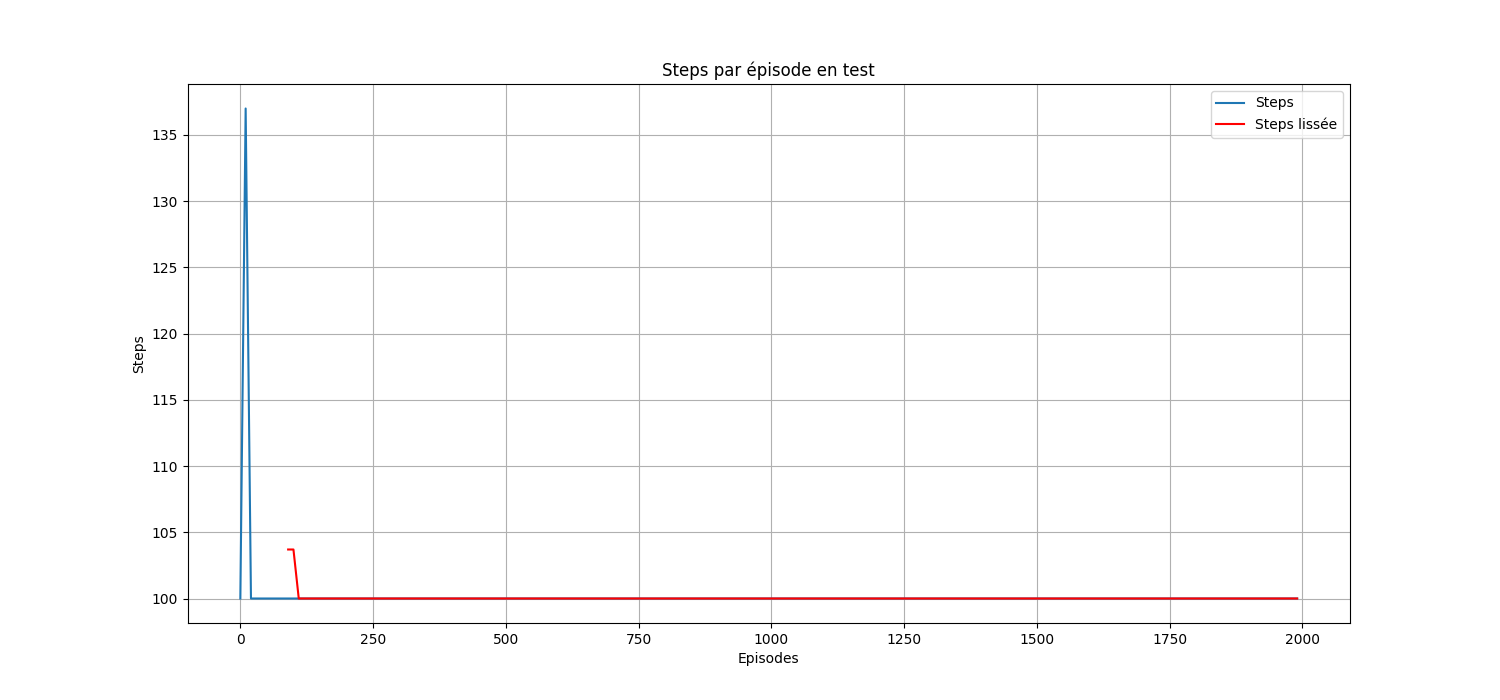
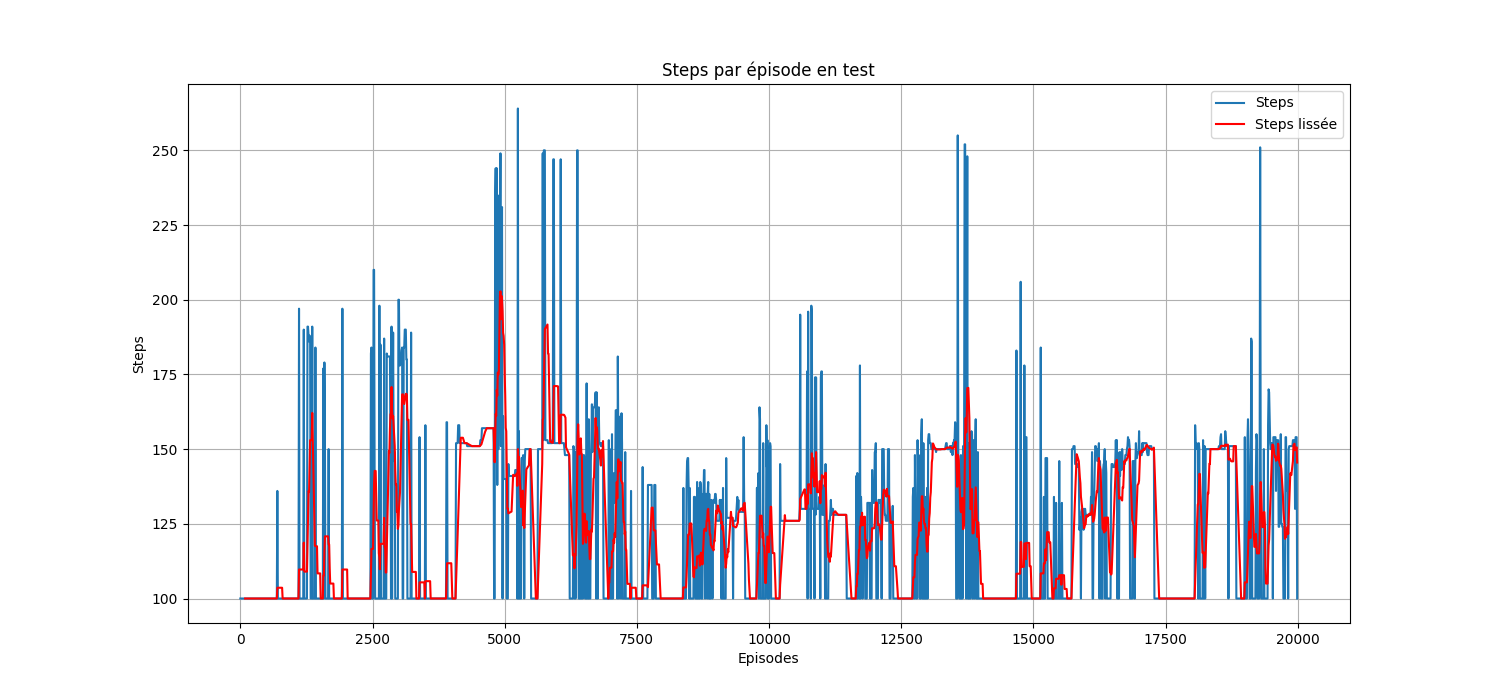
figure

diff --git a/src/visu_qtable.py b/src/visu_qtable.py
@@ -67,20 +67,20 @@ distance_ranges = [(0, 1000), (1000, 5000), (5000, 10000), (10000, 15000)]
 
 
 
-# angles = [(0, "-180 -135"), (1, "-135 -90"), (2, "-90 -45"), (3, "-45 -10"), (4, "-10 10"), (5, "10 45"), (6, "45 90"), (7, "90 135"), (8, "135 180")]
-# distances = [(0, "0 1000"), (1, "1000 5000"), (2, "5000 15000")]
-# speeds = [(0, "0 200"), (1, "200 300"), (2, "300 500")]
+angles = [(0, "-180 -135"), (1, "-135 -90"), (2, "-90 -45"), (3, "-45 -10"), (4, "-10 10"), (5, "10 45"), (6, "45 90"), (7, "90 135"), (8, "135 180")]
+distances = [(0, "0 1000"), (1, "1000 5000"), (2, "5000 10000"),(3, "10000 15000"),(4, "plus de 15000")]
+speeds = [(0, "0 200"), (1, "200 300"), (2, "300 500"),(3, "500 1000")]
 # directions = [(0, "0 45"), (1, "45 90"), (2, "90 135"), (3, "135 180"), (4, "180 225"), (5, "225 270"), (6, "270 315")]
-# # for dire in range(0,7):
-# #     state = (5,1,1\nd=ire)
+# for dire in range(0,7):
+#     state = (5,1,1\nd=ire)
 
-# #     index = discretized_state(*state)
+#     index = discretized_state(*state)
 
-# #     plt.hist(qtable[index], bins = 15)
+#     plt.hist(qtable[index], bins = 15)
 
-# #     plt.show()
+#     plt.show()
 
-# name_bins = [(0, "v=0\nd-18"), (1, "v=0\nd=-9"), (2, "v=0\nd=0"), (3, "v=0\nd=9"), (4, "v=0\nd=18"),(5,"v=50\nd=-18"), (6, "v=50\nd=-9"), (7, "v=50\nd=0"), (8, "v=50\nd=9"), (9, "v=50\nd=18"),(10,"v=100\nd=-18"), (11, "v=100\nd=-9"), (12, "v=100\nd=0"), (13, "v=100\nd=9"), (14, "v=100\nd=18")]
+name_bins = [(0, "v=0\nd-18"), (1, "v=0\nd=-9"), (2, "v=0\nd=0"), (3, "v=0\nd=9"), (4, "v=0\nd=18"),(5,"v=50\nd=-18"), (6, "v=50\nd=-9"), (7, "v=50\nd=0"), (8, "v=50\nd=9"), (9, "v=50\nd=18"),(10,"v=100\nd=-18"), (11, "v=100\nd=-9"), (12, "v=100\nd=0"), (13, "v=100\nd=9"), (14, "v=100\nd=18")]
 # for angle in angles:
 #     for distance in distances:
 #         for speed in speeds:
@@ -88,55 +88,75 @@ distance_ranges = [(0, 1000), (1000, 5000), (5000, 10000), (10000, 15000)]
 #                 index = discretized_state(*state)
 #                 plt.figure(figsize=(12, 7))
 #                 plt.bar(range(len(qtable[index])), qtable[index])
-#                 plt.title(f"Angle in [{angle[1]}], Distance in [{distance[1]}], Speed in [{speed[1]}], Direction in [{direction[1]}]")
+#                 plt.title(f"Angle in [{angle[1]}], Distance in [{distance[1]}], Speed in [{speed[1]}]]")
 #                 plt.xticks(range(len(name_bins)), [name[1] for name in name_bins])
 #                 plt.show()
+ang=8
+dist =3
+vit = 3
+state = (ang, dist, vit)
+index = discretized_state(*state)
+plt.figure(figsize=(12, 7))
+plt.bar(range(len(qtable[index])), qtable[index])
+plt.title(f"Angle in [{angles[ang][1]}], Distance in [{distances[dist][1]}], Speed in [{speeds[vit][1]}]]")
+plt.xticks(range(len(name_bins)), [name[1] for name in name_bins])
+plt.show()
+def test():
+    # plt.figsize=(15, 7)
+    # sum_col = np.mean(qtable, axis=0)
+    # plt.bar(range(len(sum_col)), sum_col)
+    # plt.title("Somme des Q-values par état")
+    # plt.xticks(range(len(name_bins)), [name[1] for name in name_bins])
+    # plt.show()
+
+    best_states = np.argsort(np.mean(qtable, axis=1))[-10:][::-1]
+    for best_state in best_states:
+        print(f"State: {best_state}, Undiscretized: {undiscretized_state(best_state)}")
+    print(undiscretized_state(best_state))
+    nb_visites =[7.40000e+01 ,3.24000e+02, 9.02000e+02 ,2.00000e+02, 2.21534e+05, 3.89540e+04,
+    3.04220e+04 ,2.09740e+04 ,2.98546e+05 ,5.68780e+04 ,3.34500e+04 ,2.23500e+04,
+    1.73026e+05 ,2.19500e+04 ,1.33000e+04 ,9.50400e+03 ,2.51580e+04 ,3.84000e+03,
+    3.70400e+03 ,2.58600e+03 ,4.00000e+00 ,2.02000e+02 ,1.98400e+03 ,4.64600e+03,
+    9.48480e+04 ,4.67700e+04 ,3.56280e+04 ,1.78640e+04 ,3.36560e+04 ,4.20840e+04,
+    4.40520e+04 ,2.58920e+04 ,1.22080e+04 ,1.26600e+04 ,2.20820e+04 ,1.42660e+04,
+    2.17400e+03 ,2.90600e+03 ,3.92800e+03 ,1.16800e+03 ,4.00000e+00 ,3.80000e+01,
+    1.64200e+03 ,5.56400e+03 ,1.51480e+04 ,1.49900e+04 ,5.78880e+04 ,4.67780e+04,
+    6.28400e+03 ,2.57600e+04 ,8.96160e+04 ,1.09716e+05 ,1.19000e+03 ,2.03600e+03,
+    2.10700e+04 ,6.48480e+04 ,2.74000e+02 ,1.20000e+02 ,7.58800e+03 ,1.62800e+03,
+    6.80000e+01 ,5.10000e+02 ,2.51200e+03 ,1.33780e+04 ,4.57600e+03 ,1.34860e+04,
+    4.70940e+04 ,1.12952e+05 ,5.61800e+03 ,4.04060e+04 ,8.59560e+04 ,6.59740e+04,
+    2.00400e+03 ,5.81800e+03 ,1.42200e+04 ,2.11860e+04 ,1.60000e+02 ,1.60000e+02,
+    8.30000e+02 ,2.12000e+02 ,1.36000e+02 ,7.02000e+02 ,2.47200e+03 ,8.02400e+03,
+    6.81400e+03 ,1.44540e+04 ,5.02420e+04 ,1.26616e+05 ,6.60200e+03 ,2.77020e+04,
+    7.85100e+04 ,3.02700e+04 ,5.48000e+02 ,1.92400e+03 ,6.59600e+03 ,7.83800e+03,
+    1.70000e+02 ,1.20000e+02 ,1.80000e+02 ,6.02000e+02 ,7.40000e+01 ,3.58000e+02,
+    2.83000e+03 ,7.21400e+03 ,2.15000e+03 ,4.96400e+03 ,3.51400e+04 ,6.13760e+04,
+    3.36000e+03 ,7.21200e+03 ,4.20500e+04 ,4.30320e+04 ,9.02000e+02 ,2.41800e+03,
+    8.31600e+03 ,9.52400e+03 ,1.38000e+02 ,1.42000e+02 ,2.04000e+02 ,4.58000e+02,
+    6.00000e+00 ,2.14000e+02 ,1.55200e+03 ,2.35200e+03 ,1.27820e+04 ,1.11420e+04,
+    5.15020e+04 ,3.94720e+04 ,8.64200e+03 ,2.04540e+04 ,9.55080e+04 ,8.50880e+04,
+    3.46200e+03 ,2.43400e+03 ,2.73220e+04 ,7.34720e+04 ,1.90000e+02 ,2.14000e+02,
+    6.66000e+02 ,1.22700e+04 ,0.00000e+00 ,2.88000e+02 ,2.09000e+03 ,1.98200e+03,
+    1.00862e+05 ,3.91560e+04 ,2.98440e+04 ,1.13440e+04 ,3.76060e+04 ,2.82060e+04,
+    3.69400e+04 ,1.76060e+04 ,1.16300e+04 ,6.87800e+03 ,2.00780e+04 ,9.36400e+03,
+    1.31400e+03 ,9.00000e+02 ,1.21400e+03 ,3.79800e+03 ,7.60000e+01 ,3.24000e+02,
+    4.74000e+02 ,1.30000e+02 ,2.20254e+05 ,2.87740e+04 ,2.24780e+04 ,2.25380e+04,
+    2.99778e+05 ,4.12200e+04 ,3.13100e+04 ,3.11860e+04 ,1.79564e+05 ,2.18140e+04,
+    1.22160e+04 ,7.65000e+03 ,3.47800e+04 ,3.84000e+03 ,3.08200e+03 ,2.16600e+03]
+
+    plt.figure(figsize=(15, 7))
+    plt.xlabel("Etats")
+    plt.ylabel("Nombre de fois visité")
+    plt.title("Nombre de visite par état")
+    plt.hist(range(len(nb_visites)), weights=nb_visites, bins=len(nb_visites), edgecolor='black')
+    plt.yscale('log')
+    plt.savefig("Graphiques/test9/trace_etat.png")
+    least_visited = np.argsort(nb_visites)[:10]
+    for least_state in least_visited:
+        print(f"State: {least_state}, Undiscretized: {undiscretized_state(least_state)}, Visits: {nb_visites[least_state]}")
 
 
-# # plt.figsize=(15, 7)
-# # sum_col = np.mean(qtable, axis=0)
-# # plt.bar(range(len(sum_col)), sum_col)
-# # plt.title("Somme des Q-values par état")
-# # plt.xticks(range(len(name_bins)), [name[1] for name in name_bins])
-# # plt.show()
 
-# best_states = np.argsort(np.mean(qtable, axis=1))[-10:][::-1]
-# for best_state in best_states:
-#     print(f"State: {best_state}, Undiscretized: {undiscretized_state(best_state)}")
-# print(undiscretized_state(best_state))
-nb_visites = [4.0000e+00 6.0000e+00 6.0000e+01 1.2000e+02 2.5066e+04 4.3340e+03
- 4.8040e+03 4.1040e+03 1.9092e+04 4.9880e+03 5.1500e+03 2.6920e+03
- 1.8280e+03 1.8460e+03 2.3700e+03 1.5700e+03 8.0000e+01 5.3800e+02
- 1.3060e+03 1.1820e+03 0.0000e+00 1.0000e+01 1.9800e+02 7.6000e+02
- 2.2190e+04 7.3800e+03 8.7640e+03 5.5820e+03 6.3660e+03 9.2500e+03
- 5.0120e+03 3.3920e+03 3.5600e+02 6.0000e+02 9.7400e+02 8.1800e+02
- 0.0000e+00 1.4000e+01 1.4400e+02 2.0400e+02 0.0000e+00 0.0000e+00
- 1.4000e+02 7.2400e+02 8.0600e+02 6.2660e+03 1.8122e+04 1.6660e+04
- 1.6420e+03 3.8920e+03 1.6460e+03 1.5876e+04 7.6000e+01 2.4000e+01
- 3.4600e+02 1.7540e+03 4.0000e+00 0.0000e+00 8.0000e+00 2.8000e+01
- 1.6000e+01 3.4000e+01 1.6200e+02 6.2000e+02 1.9400e+02 1.3040e+03
- 3.6420e+03 1.0776e+04 3.7600e+02 1.2340e+03 1.9240e+03 1.0186e+04
- 3.1400e+02 3.2400e+02 8.9600e+02 1.9400e+03 1.0000e+01 1.8000e+01
- 1.0000e+01 1.0000e+01 1.8000e+01 1.2000e+01 1.0000e+01 1.8000e+01
- 1.7200e+02 1.5800e+02 2.1200e+02 2.9120e+03 5.7600e+02 5.3400e+02
- 6.8200e+02 2.6200e+03 4.9200e+02 3.9800e+02 7.4800e+02 9.4600e+02
- 2.4000e+01 1.8000e+01 1.2000e+01 7.8000e+01 1.0000e+01 1.4000e+01
- 2.4000e+01 1.4000e+01 1.8600e+02 1.7200e+02 1.0740e+03 2.0460e+03
- 5.9000e+02 6.1800e+02 1.3940e+03 2.5040e+03 1.9220e+03 2.7200e+02
- 1.3200e+02 1.9200e+02 1.4000e+01 1.0000e+01 1.4000e+01 1.0000e+01
- 0.0000e+00 6.0000e+00 2.2000e+01 6.2000e+01 5.5000e+02 6.4800e+02
- 5.8920e+03 1.1596e+04 1.1520e+03 1.5100e+03 1.6820e+03 4.4740e+03
- 1.1600e+02 1.0200e+02 8.0000e+00 8.0000e+00 0.0000e+00 0.0000e+00
- 0.0000e+00 0.0000e+00 0.0000e+00 0.0000e+00 2.8000e+01 7.8000e+01
- 9.8320e+03 3.7000e+03 4.3160e+03 4.0240e+03 9.0020e+03 2.7040e+03
- 2.6860e+03 1.9380e+03 3.3000e+02 5.6200e+02 9.9600e+02 5.5600e+02
- 2.4000e+01 2.2000e+01 1.1400e+02 1.9000e+02 6.0000e+00 4.0000e+00
- 2.0000e+01 6.0000e+00 1.5258e+04 2.4040e+03 2.5760e+03 2.3240e+03
- 1.7290e+04 4.0180e+03 4.2480e+03 2.5720e+03 2.2260e+03 2.1600e+03
- 2.8200e+03 1.5500e+03 1.5200e+02 6.2000e+02 1.3220e+03 1.1940e+03]
-
-least_visited = np.argsort(nb_visites)[:10]
-for least_state in least_visited:
-    print(f"State: {least_state}, Undiscretized: {undiscretized_state(least_state)}")
-# for i in range(75,80):
-#     print(i,undiscretized_state(i))
+    for i in range(5):
+        for j in range(4):
+            print(discretized_state(4,i,j))

diff --git a/src/test_qtable.py b/src/test_qtable.py
@@ -32,13 +32,14 @@ def plot_base_grid():
     target_x = (CIBLE[0] // GRID_SIZE) * GRID_SIZE
     target_y = (CIBLE[1] // GRID_SIZE) * GRID_SIZE
     ax.add_patch(plt.Rectangle((target_x, target_y), GRID_SIZE, GRID_SIZE, color='red', alpha=0.5))
-    plt.title("Heatmap des Q-values pour différentes distances")
+    plt.title("Valeur fixée: angle entre -180 et -135 et vitesse inférieure à 200")
     plt.xlabel("X")
     plt.ylabel("Y")
     return fig, ax
+speeds = [(0, "0 200"), (1, "200 300"), (2, "300 500"),(3, "500 1000")]
 
-fixed_angle = 4
-fixed_vitesse = 3
+fixed_angle = 0
+fixed_vitesse = 0
 
 color_grid = np.full((WIDTH // GRID_SIZE, HEIGHT // GRID_SIZE), np.nan)
 

diff --git a/src/qagent.py b/src/qagent.py
@@ -183,7 +183,7 @@ def test_hyperparams():
 if __name__ == "__main__":
     # test_hyperparams()
     dir_name = "test10"
-    agent = Qagent(MPR_env_3(custom=False,nb_round=2, nb_cp=2), epsilon = .4, alpha=.1, gamma= .95 ,do_test=True, episodes= 2000)
+    agent = Qagent(MPR_env_3(custom=False,nb_round=2, nb_cp=2), epsilon = .4, alpha=.1, gamma= .95 ,do_test=True, episodes= 20000)
     with open(f"{GRAPH_PATH}/{dir_name}/training_params_{timestamp}.txt", "w") as f:
         f.write(f"Environment: {type(agent.env).__name__}\n")
         f.write(f"Training Parameters:\n")
